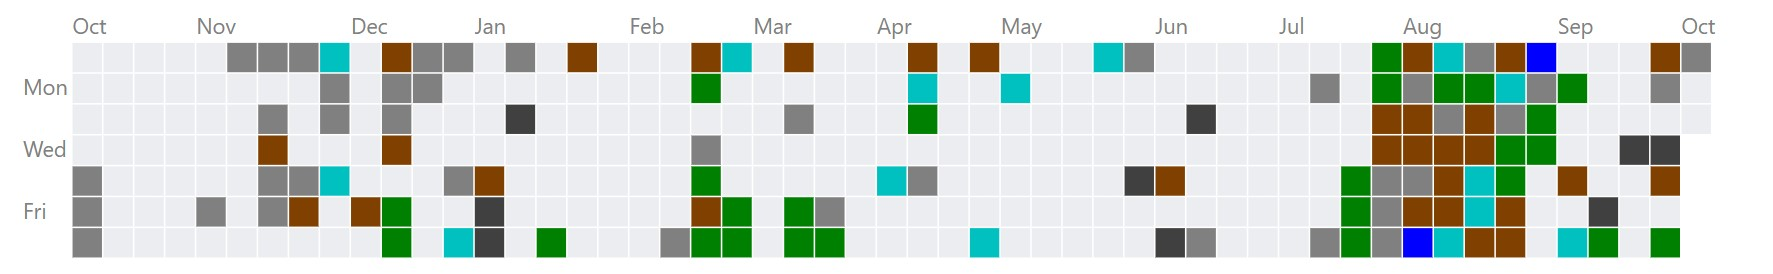
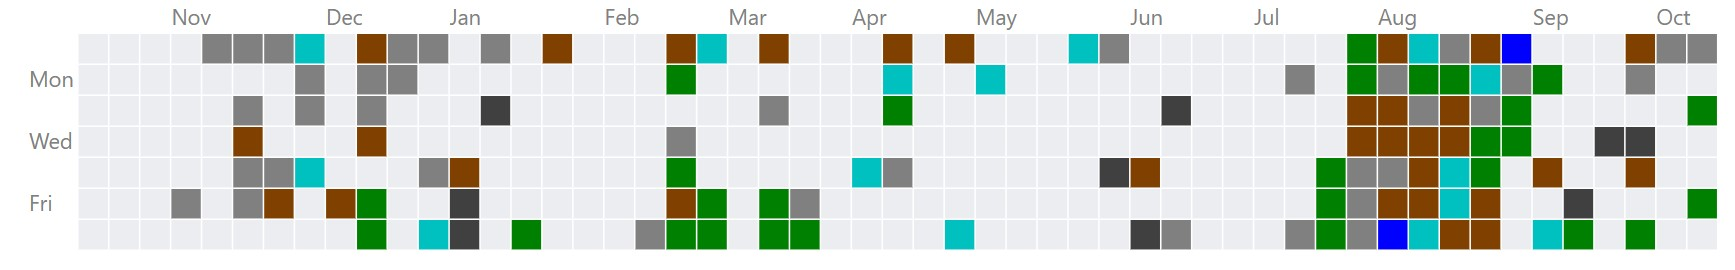
色変記事　これからの目標について　まで

diff --git a/kyopro/green.html b/kyopro/green.html
@@ -21,7 +21,7 @@
 
 <body>
 	<div class="title">
-		<h3>2021/10/5</h3>
+		<h3>2021/10/16</h3>
 		<h1>緑コーダーになるまでにやったこと</h1>
 	</div>
 	<hr>
@@ -188,7 +188,7 @@
 		<ul>
 			<li>尺取り法</li>
 			<li>ナップサックDP、確率DP、bitDP</li>
-			<li>DFS</li>
+			<li>DFS(bit、再帰)</li>
 			<li>BFS</li>
 			<li>二分探索</li>
 			<li>バケット法</li>
@@ -201,6 +201,9 @@
 			アルゴリズムを理解したときに感動が大きかったのは二分探索、尺取り法、繰り返し二乗法あたりだったと思います。計算量を線形時間から対数時間まで落とせるのはロマンがありますよね。
 		</p>
 		<h2>勉強方法の変化について</h2>
+		<p>
+			最後に、勉強方法の変化についてです。
+		</p>
 		<p>
 			灰→茶の時と茶→緑の時では勉強方法がかなり変化しました。具体的には、以下の3点が大きな変更点でした。
 		</p>	
@@ -228,6 +231,26 @@
 		<p>
 			しかし、それを読んだだけではなかなか理解できないことが多々あります。そのためTwitterで分かりやすく解説してくれている人をフォローしたり、Discordの競プロサーバーに入ったり、ブログを読んだり、と問題を理解するために活用できるものを増やしました。
 		</p>
+		<h2>
+			精進記録
+		</h2>
+		<img src="picture/green_8.jpg"><br><br>
+		<img src="picture/green_7.jpg">
+		<p>
+			こんな感じです。最近は緑diffの問題もすらすら解ける事が多くなってきた気がします。
+		</p>
+		<p>
+			Heatmap(下の画像)を見ると、今年の夏休みは結構頑張っていたのが分かって良いです。
+		</p>
+		<h1 id="future">これからの目標について</h1>
+		<p>
+			入緑することが当面の目標だったので、次は何を目標にするか考えていたのですが、とりあえず決まったので書いておきます。
+		</p>
+		<h3>2022年6月までに<span style="color:aqua">入水</span>する</h3>
+		<p>
+			これに向けて今後も頑張っていきたいと思います！
+		</p>
+		
 	</div>
 	<br><br>
 </body>
